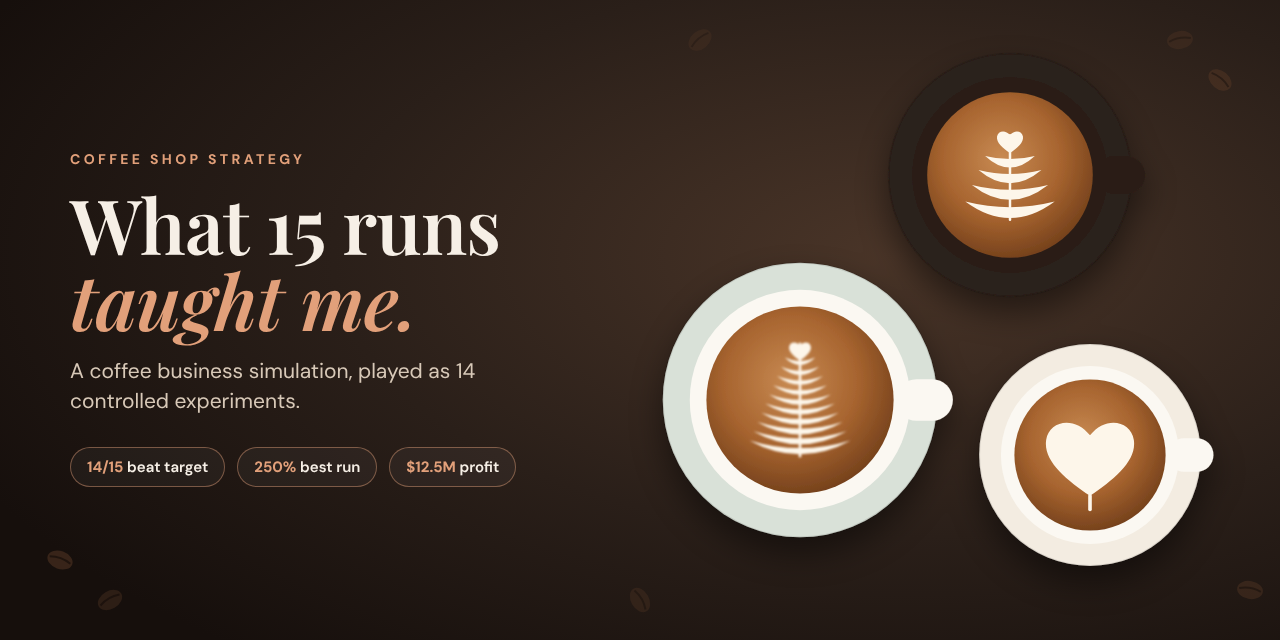
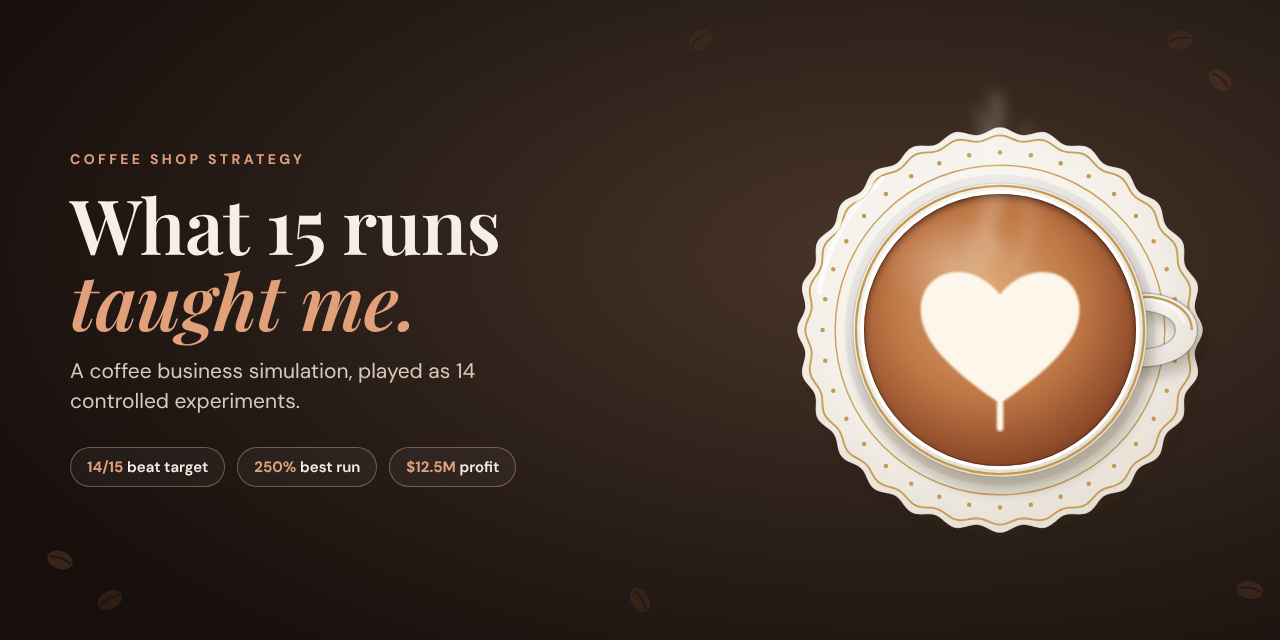
Add files via upload

Changed region(s): [[0.5, 0.125, 0.9688, 0.9062]]

diff --git a/README.md b/README.md
@@ -1,18 +1,16 @@
 <p align="center">
-  <a href="https://shab-analytics.github.io/coffee-strategy-dashboard/"><img src="assets/banner.png" alt="What 15 runs taught me: a coffee business simulation played as controlled experiments" width="100%"></a>
+  <a href="https://dewpoint-analytics.github.io/coffee-strategy-dashboard/?ref=github"><img src="banner-heart.gif" alt="What 15 runs taught me: a heart latte beating in a gold-rimmed china cup" width="100%"></a>
 </p>
 
 <p align="center">
-  <a href="https://shab-analytics.github.io/coffee-strategy-dashboard/"><img alt="Live site" src="https://img.shields.io/badge/%E2%98%95%20Live%20site-open%20the%20dashboard-b5652f?style=for-the-badge"></a>
-  <a href="https://shab-analytics.github.io/coffee-strategy-dashboard/report.html"><img alt="Field report" src="https://img.shields.io/badge/%F0%9F%93%84%20Field%20report-23%20pages-2a1f19?style=for-the-badge"></a>
+  <a href="https://dewpoint-analytics.github.io/coffee-strategy-dashboard/?ref=github"><img alt="Live site" src="https://img.shields.io/badge/%E2%98%95%20Live%20site-open%20the%20dashboard-b5652f?style=for-the-badge"></a>
+  <a href="https://dewpoint-analytics.github.io/coffee-strategy-dashboard/report.html?ref=github"><img alt="Field report" src="https://img.shields.io/badge/%F0%9F%93%84%20Field%20report-23%20pages-2a1f19?style=for-the-badge"></a>
   <img alt="Runs that beat target" src="https://img.shields.io/badge/runs%20beating%20target-14%20of%2015-6f8f72?style=for-the-badge">
 </p>
 
 <h3 align="center">I ran a coffee business 15 times.<br>Then I treated every run as an experiment.</h3>
 
 <p align="center">One shop, then a brand, then an international chain. Same news, same customers, one decision changed at a time.<br>Here is what actually moved profit, measured to the dollar.</p>
-
-<p align="center"><img src="assets/latte-pour.gif" alt="Latte art being poured, layer by layer" width="220"></p>
 
 ---
 
@@ -32,7 +30,7 @@
 
 ## 🎞 Watch Level 3 grow, one idea at a time
 
-<p align="center"><img src="assets/level3-replay.gif" alt="Animated replay of Level 3 runs 1 to 5, from $10.64M to $12.50M" width="100%"></p>
+<p align="center"><img src="level3-replay.gif" alt="Animated replay of Level 3 runs 1 to 5, from $10.64M to $12.50M" width="100%"></p>
 
 Each run kept what worked and tested one new idea: faster openings, roasting moved to where customers valued it, one extra early store. Five-year profit climbed from **$10.64M to $12.50M**.
 
@@ -40,27 +38,27 @@ Each run kept what worked and tested one new idea: faster openings, roasting mov
 
 ## 🔬 The Decision Lab: what each choice was worth
 
-<p align="center"><img src="assets/site-lab.png" alt="Decision Lab: 14 controlled tests ranked by their effect on five-year profit" width="100%"></p>
+<p align="center"><img src="site-lab.png" alt="Decision Lab: 14 controlled tests ranked by their effect on five-year profit" width="100%"></p>
 
 The simulation is deterministic: the same decisions always give the same result. So changing **one** decision between two runs measures its exact value. Fourteen tests, from **+$952,776** (open stores faster) to **−$246,125** (pick the campus).
 
 <details>
 <summary><b>More from the dashboard</b> (performance, scorecard, playbook)</summary>
 <br>
-<img src="assets/site-performance.png" alt="All 15 runs against their targets" width="100%">
+<img src="site-performance.png" alt="All 15 runs against their targets" width="100%">
 <br><br>
-<img src="assets/site-scorecard.png" alt="People, planet and profit scorecard" width="100%">
+<img src="site-scorecard.png" alt="People, planet and profit scorecard" width="100%">
 <br><br>
-<img src="assets/site-playbook.png" alt="Seven decision rules" width="100%">
+<img src="site-playbook.png" alt="Seven decision rules" width="100%">
 </details>
 
 ---
 
 ## 📄 The field report
 
-<p align="center"><a href="https://shab-analytics.github.io/coffee-strategy-dashboard/report.html"><img src="assets/report-preview.png" alt="Pages from the field report: Grow Early, Differentiate Where It Pays" width="100%"></a></p>
+<p align="center"><a href="https://dewpoint-analytics.github.io/coffee-strategy-dashboard/report.html?ref=github"><img src="report-preview.png" alt="Pages from the field report: Grow Early, Differentiate Where It Pays" width="100%"></a></p>
 
-**Grow Early, Differentiate Where It Pays**: a 23-page business-journal style write-up with 15 exhibits, Porter's Five Forces, a VRIO test, break-even maths and an honest section on where my judgement was wrong. [Read it here →](https://shab-analytics.github.io/coffee-strategy-dashboard/report.html)
+**Grow Early, Differentiate Where It Pays**: a 23-page business-journal style write-up with 15 exhibits, Porter's Five Forces, a VRIO test, break-even maths and an honest section on where my judgement was wrong. [Read it here →](https://dewpoint-analytics.github.io/coffee-strategy-dashboard/report.html?ref=github)
 
 ---
 
@@ -88,7 +86,7 @@ The simulation is deterministic: the same decisions always give the same result.
 | `index.html`, `styles.css`, `app.js` | The site (plain HTML, CSS and JavaScript, no build step) |
 | `data.json` | Every figure on the page |
 | `report.html` → `Coffee_Shop_Simulation_Report.pdf` | The field report |
-| `assets/` | README images and animations |
+| `` | README images and animations |
 
 ---
 
